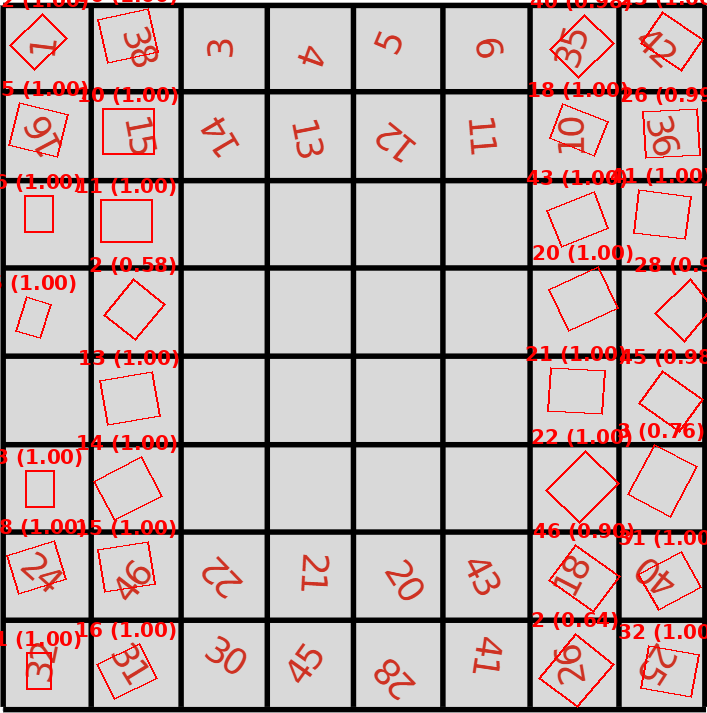
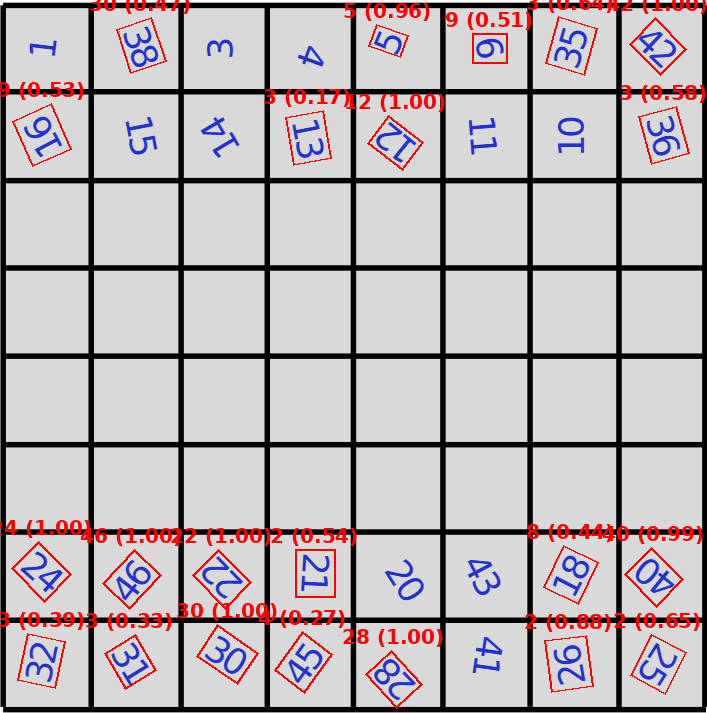
Détection nombre avec preprocessing mais 50% de reussite sur les rotations

diff --git a/detection_remastered/detection_remastered_paddleocr_sale.py b/detection_remastered/detection_remastered_paddleocr_sale.py
@@ -3,14 +3,17 @@ import re
 from PIL import Image, ImageDraw, ImageFont
 import numpy as np
 
-# Initialiser PaddleOCR avec détection d'angle
+# Initialiser PaddleOCR sans correction d'orientation du document
+# car l'image sale est déjà bien orientée
 ocr = PaddleOCR(
-    use_textline_orientation=True,  # Gère les rotations
+    use_textline_orientation=True,  # Gère les rotations des lignes de texte
+    use_doc_orientation_classify=False,  # Désactive la rotation automatique du document
+    use_doc_unwarping=False,  # Désactive la correction de perspective
     lang='en'
 )
 
 # Lecture de l'image
-image_path = "/home/loan/Documents/Junia/AP5/projet_chess/chess-project/detection_remastered/image_propre.jpg"
+image_path = "/home/loan/Documents/Junia/AP5/projet_chess/chess-project/detection_remastered/image_sale.png"
 result = ocr.predict(image_path)
 
 # Charger la font
@@ -72,10 +75,10 @@ if result and len(result) > 0:
             draw.text((int(center_x - text_width/2), int(top_y) - 25), label, fill='red', font=font)
 
     # Sauvegarder l'image annotée (image prétraitée avec annotations)
-    img.save('/home/loan/Documents/Junia/AP5/projet_chess/chess-project/detection_remastered/image_propre_detecte_paddle.png')
+    img.save('/home/loan/Documents/Junia/AP5/projet_chess/chess-project/detection_remastered/image_sale_detecte_paddle.png')
     
     # Optionnel: sauvegarder aussi l'image prétraitée sans annotations pour comparaison
-    Image.fromarray(preprocessed_img).save('/home/loan/Documents/Junia/AP5/projet_chess/chess-project/detection_remastered/image_preprocessed.png')
+    Image.fromarray(ocr_result['doc_preprocessor_res']['output_img']).save('/home/loan/Documents/Junia/AP5/projet_chess/chess-project/detection_remastered/image_sale_preprocessed.png')
 
 print("Nombres détectés:")
 for item in nombres_avec_pos:

diff --git a/detection_remastered/detection_remastered_paddleocr_propre.py b/detection_remastered/detection_remastered_paddleocr_propre.py
@@ -75,7 +75,7 @@ if result and len(result) > 0:
     img.save('/home/loan/Documents/Junia/AP5/projet_chess/chess-project/detection_remastered/image_propre_detecte_paddle.png')
     
     # Optionnel: sauvegarder aussi l'image prétraitée sans annotations pour comparaison
-    Image.fromarray(preprocessed_img).save('/home/loan/Documents/Junia/AP5/projet_chess/chess-project/detection_remastered/image_preprocessed.png')
+    Image.fromarray(ocr_result['doc_preprocessor_res']['output_img']).save('/home/loan/Documents/Junia/AP5/projet_chess/chess-project/detection_remastered/image_propre_preprocessed.png')
 
 print("Nombres détectés:")
 for item in nombres_avec_pos:
